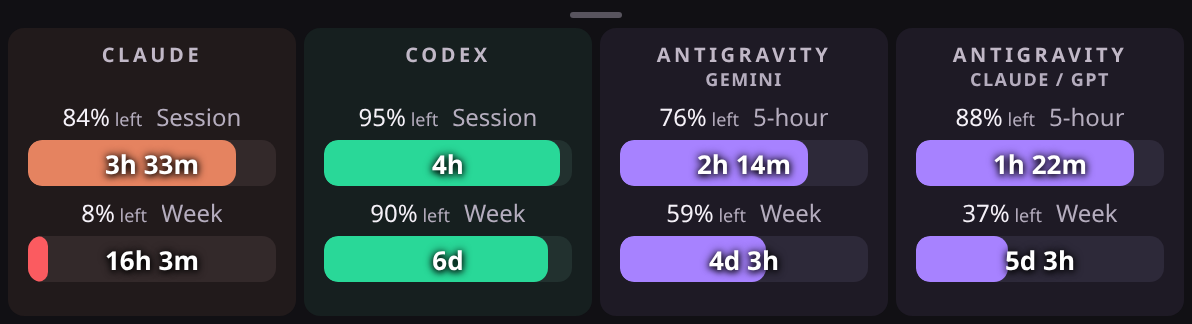
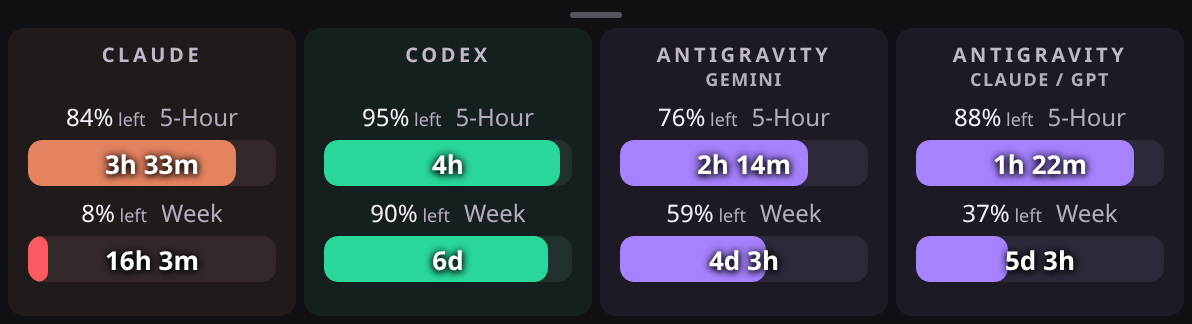
Use consistent 5-Hour widget labels

diff --git a/Integrations/FloatingWidget/usage.ts b/Integrations/FloatingWidget/usage.ts
@@ -60,14 +60,15 @@ function finitePercent(value: unknown): number | null {
   return typeof value === "number" && Number.isFinite(value) ? Math.min(100, Math.max(0, value)) : null;
 }
 
-function quotaRow(row: Record<string, unknown>, showUsed: boolean): WindowReading {
+function quotaRow(row: Record<string, unknown>, showUsed: boolean, providerID: string): WindowReading {
   const reportedUsed = finitePercent(row.usedPercent);
   const reportedRemaining = finitePercent(row.remainingPercent);
   const usedPercent = reportedUsed ?? (reportedRemaining === null ? null : 100 - reportedRemaining);
   const remainingPercent = reportedRemaining ?? (usedPercent === null ? null : 100 - usedPercent);
   const name = label(row.label, "Usage");
+  const fiveHourSession = name === "Session" && (providerID === "claude" || providerID === "codex");
   return {
-    label: name === "Weekly" ? "Week" : name,
+    label: fiveHourSession ? "5-Hour" : name === "Weekly" ? "Week" : name,
     usedPercent,
     displayPercent: showUsed ? usedPercent : remainingPercent,
     resetAt: timestamp(row.resetAt),
@@ -92,7 +93,7 @@ function antigravityCardWindows(windows: Record<string, unknown>[]): CardWindows
       / (5-hour|weekly)$/.exec(title)?.[1] ?? /-(weekly|5h|5-hour|session|five-hour|five hour)$/.exec(bucket)?.[1];
     const geminiBucket = /^gemini-(weekly|5h|5-hour|session|five-hour|five hour)$/.test(bucket);
     const claudeBucket = /(?:^|-)(3p|third-party)(?:-|$)/.test(bucket);
-    const cadenceLabel = cadence === "weekly" ? "Weekly" : "5-hour";
+    const cadenceLabel = cadence === "weekly" ? "Weekly" : "5-Hour";
     if (bucket && cadence && !claudeBucket && (geminiBucket || /^gemini (5-hour|weekly)$/.test(title))) {
       gemini.push({ window, label: cadenceLabel });
     } else if (bucket && cadence && !bucket.includes("gemini") && (claudeBucket || /\b(claude|gpt)\b/.test(title))) {
@@ -152,7 +153,7 @@ function makeCards(snapshot: unknown, providerIDs: string[], now: number): Provi
       family,
       showUsed,
       accent,
-      rows: windows.slice(0, 2).map((window) => quotaRow(window, showUsed)),
+      rows: windows.slice(0, 2).map((window) => quotaRow(window, showUsed, id)),
       extraRows: Math.max(0, windows.length - 2),
       stale: windows.length > 0 && (measured === null || now - measured > maxAge || !!provider?.error),
       status: provider?.enabled === true ? "Usage unavailable" : "Provider unavailable",
